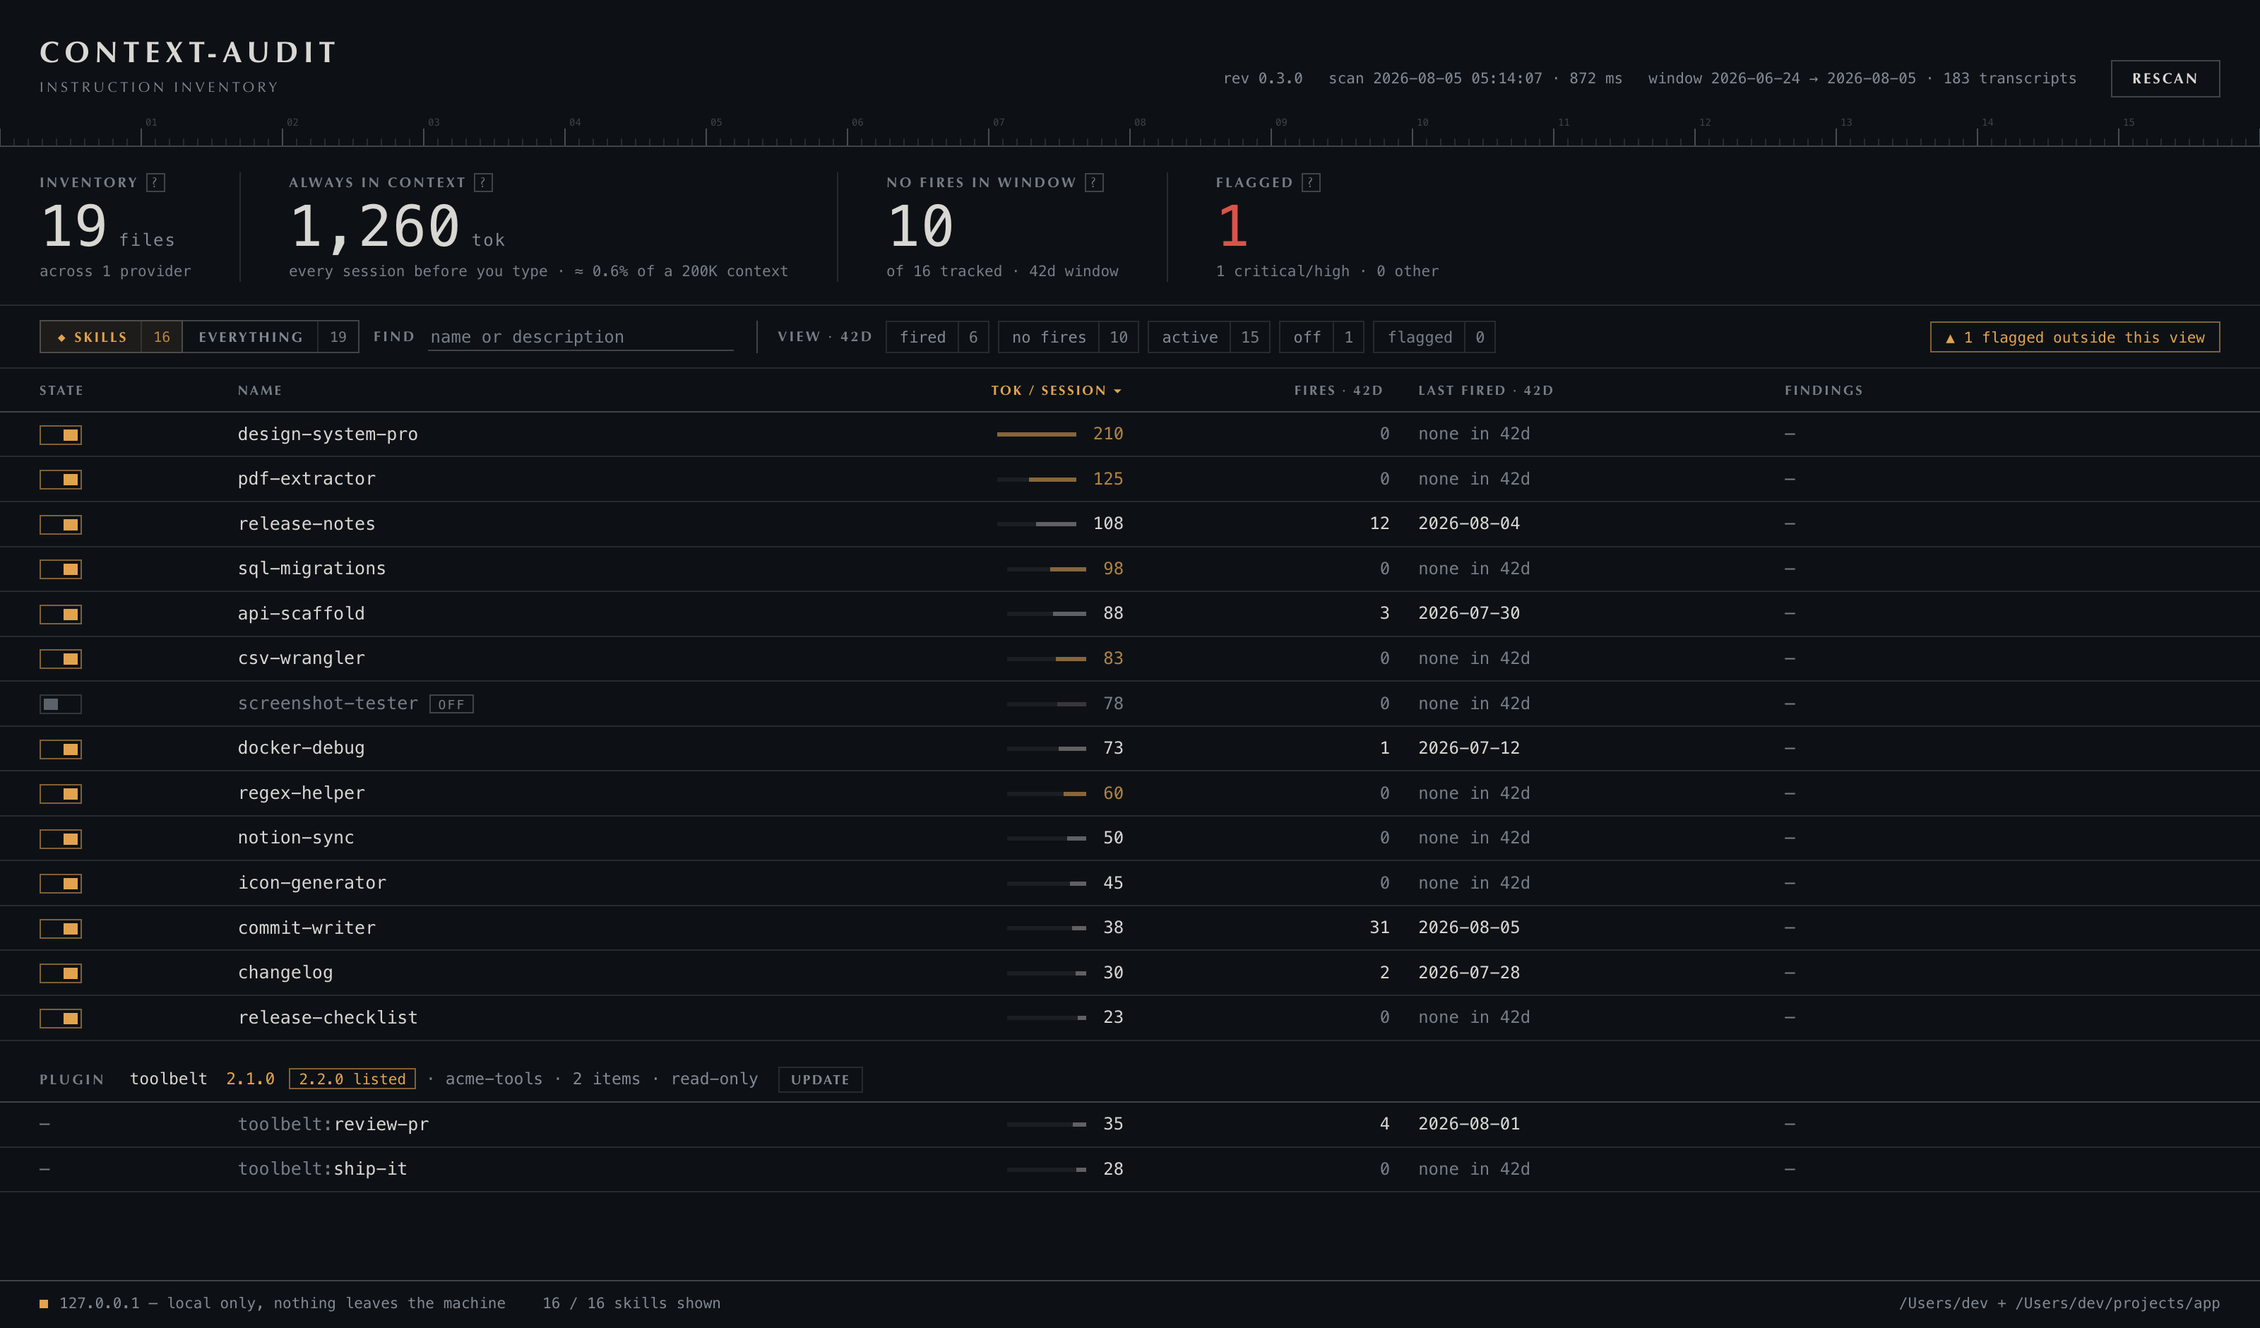
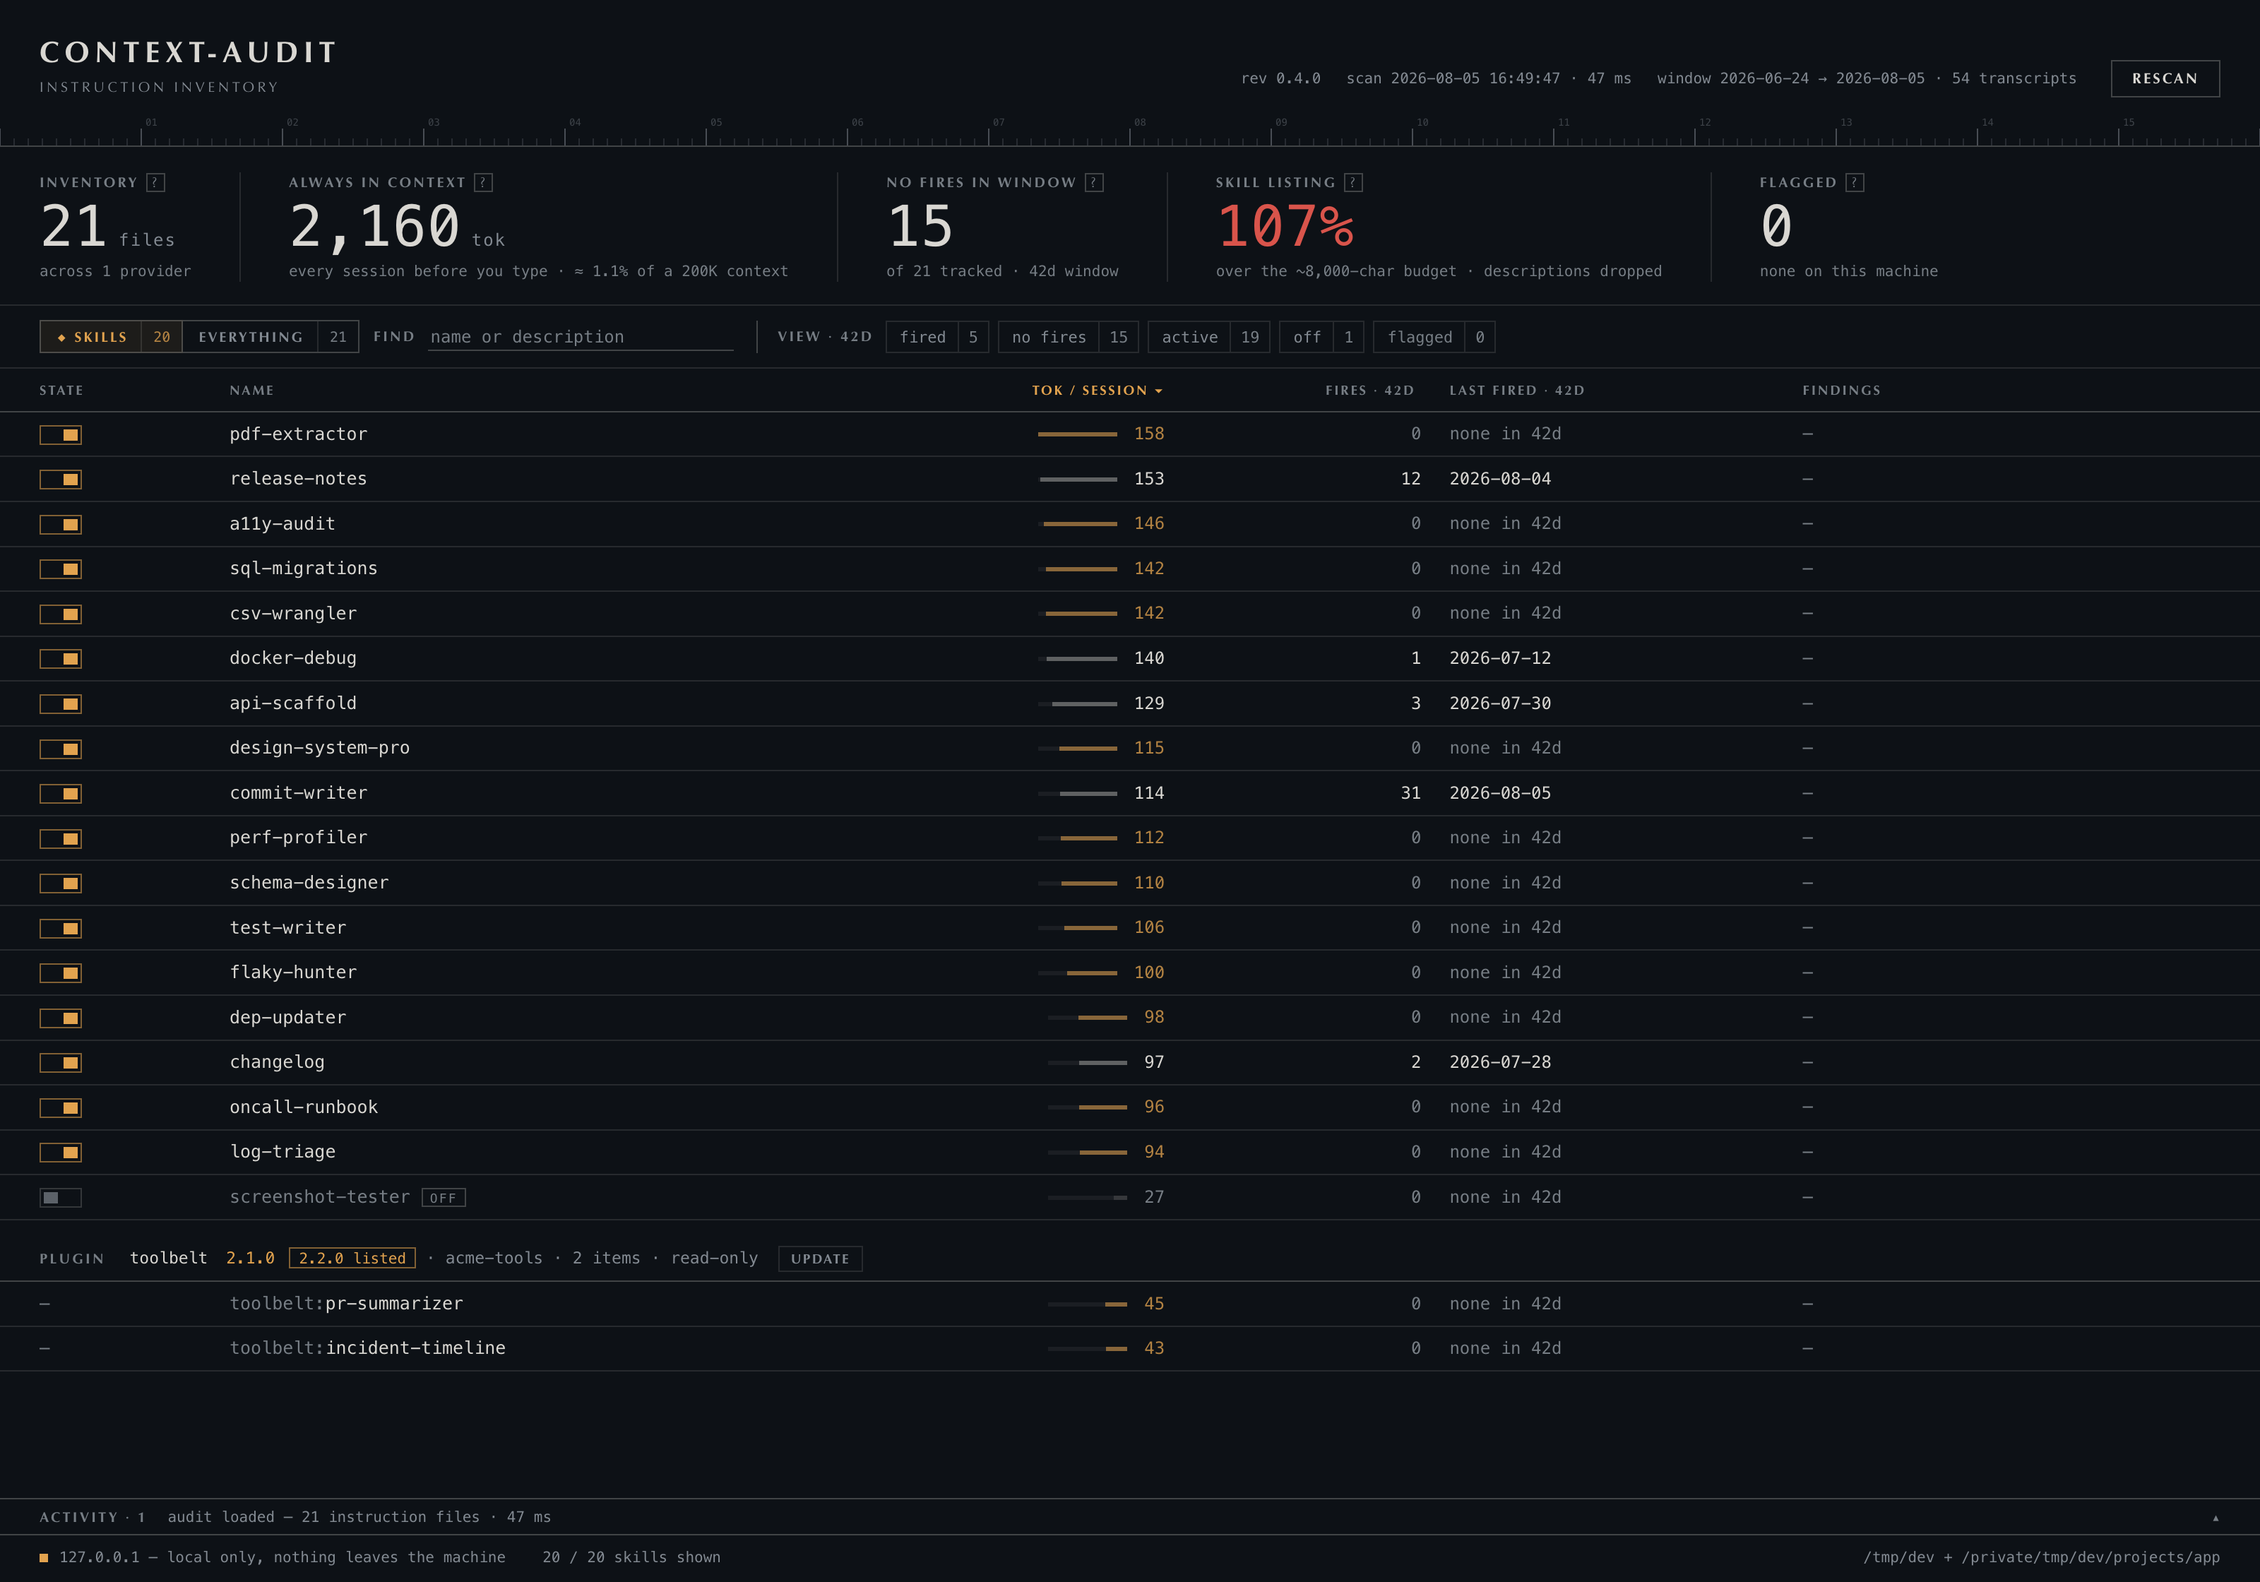
Put the listing budget on the dashboard, where the question gets asked
The CLI has reported the skill-listing budget since v0.1 and the dashboard
never did — so the number that answers "why has Claude stopped firing my
skill?" was missing from the surface the companion skill hands people when
they ask exactly that. 0.4.0 repositioned the whole product around that
question; this closes the gap it opened.

- SKILL LISTING joins the header readouts: a percentage of the ~8,000-char
  budget, red past 100%, with the consequence in the sub-line rather than a
  bare number ("descriptions dropped"). Absent entirely on machines with no
  Claude skills — a budget nothing is subject to is not a fact about the
  setup, and a Claude-specific 0% on a Cursor-only machine would be noise.

- The figure and the over/under call move to content.ts so the report and the
  page cannot drift apart on it, the same reason injectedChars already lives
  there. The dashboard counts plugin skills (they are listed) while the CLI's
  claude adapter does not inventory plugins at all, so the dashboard reads
  higher on the same machine; the tooltip states both scopes rather than
  leaving two unexplained numbers. Teaching the CLI to inventory plugins is
  the real fix and is its own change.

- New README hero, generated from a fabricated HOME rather than the author's
  own inventory: 107% over budget, 15 of 21 with no fires, a plugin with an
  update available. The old image was rev 0.3.0 and predated all of it.

315 assertions.

diff --git a/src/content.ts b/src/content.ts
@@ -1,6 +1,41 @@
-import type { ContentFacts, Skill } from "./types.js";
+import type { ContentFacts, ListingBudget, Skill } from "./types.js";
 
 const est = (s: string): number => Math.ceil(s.length / 4);
+
+/**
+ * Claude Code loads skill names + descriptions into every session under a
+ * character budget of `skillListingBudgetFraction` (default 1% of the context
+ * window — 8,000 chars on a 200K model). Past it, descriptions are dropped
+ * starting with the least-invoked skills; the skill still exists but can no
+ * longer auto-trigger. Documented at code.claude.com/docs/en/skills.
+ *
+ * This is the tool's most actionable number — it is the answer to "why has
+ * Claude stopped firing my skill?" — so it lives here rather than in either
+ * renderer: the report and the dashboard must never disagree about it.
+ */
+export const LISTING_BUDGET_CHARS = 8000;
+
+/** The listing figure and what it means, computed once for every surface. */
+export function listingBudget(chars: number): ListingBudget {
+  return {
+    chars,
+    budgetChars: LISTING_BUDGET_CHARS,
+    // Rounded for display only; `over` is decided on the raw characters, so a
+    // listing at 100.4% never reads "100%" next to the word "within".
+    pct: Math.round((chars / LISTING_BUDGET_CHARS) * 100),
+    over: chars > LISTING_BUDGET_CHARS,
+  };
+}
+
+/**
+ * Characters this asset contributes to the skill listing. Only skills are
+ * listed under the budget, and only while they are loaded — a disabled skill
+ * costs nothing because it is not in the directory Claude Code reads.
+ */
+export function listingChars(asset: Skill): number {
+  if ((asset.kind ?? "skill") !== "skill" || !asset.hasSkillMd) return 0;
+  return asset.dirName.length + (asset.description?.trim().length ?? 0);
+}
 
 /**
  * Characters an asset keeps in context at all times, per its Injection model.
@@ -28,7 +63,7 @@ export function contentFacts(assets: Skill[]): ContentFacts {
   const byDescription = new Map<string, string[]>();
   const tokens: ContentFacts["tokens"] = [];
   let alwaysInjectedChars = 0;
-  let listingChars = 0;
+  let listed = 0;
 
   for (const asset of assets) {
     const kind = asset.kind ?? "skill";
@@ -37,9 +72,7 @@ export function contentFacts(assets: Skill[]): ContentFacts {
       continue;
     }
     alwaysInjectedChars += injectedChars(asset);
-    if (kind === "skill") {
-      listingChars += asset.dirName.length + (asset.description?.trim().length ?? 0);
-    }
+    listed += listingChars(asset);
     const desc = asset.description?.trim() ?? "";
     if (desc === "") {
       // Only kinds that auto-dispatch on their description are broken without
@@ -81,6 +114,6 @@ export function contentFacts(assets: Skill[]): ContentFacts {
     totalBodyEst: tokens.reduce((sum, t) => sum + t.bodyEst, 0),
     alwaysInjectedEst: Math.ceil(alwaysInjectedChars / 4),
     alwaysInjectedChars,
-    listingChars,
+    listingChars: listed,
   };
 }

diff --git a/src/ui/frontend/render.ts b/src/ui/frontend/render.ts
@@ -443,12 +443,37 @@ function headerReadouts(payload: UiPayload, state: AppState): string {
       "",
       `${win.note} Only kinds the transcripts record dispatch for are counted here (skills and commands); agents and instruction files have no dispatch record, so they are not called unused.`
     ),
+    // The listing budget. Absent on machines it does not apply to (no Claude
+    // skills) rather than shown as a zero — a budget nothing is subject to is
+    // not a fact about this setup.
+    ...(h.listing
+      ? [
+          readout(
+            "skill listing",
+            `${fmtInt(h.listing.pct)}%`,
+            "",
+            h.listing.over
+              ? `over the ~${fmtInt(h.listing.budgetChars)}-char budget · descriptions dropped`
+              : `of the ~${fmtInt(h.listing.budgetChars)}-char budget · all descriptions load`,
+            3,
+            state.animate,
+            h.listing.over ? " danger" : "",
+            (h.listing.over
+              ? `Claude Code budgets the skill LISTING — every enabled skill's name and description — in characters (skillListingBudgetFraction, ~1% of the context window). Yours is ${fmtInt(h.listing.chars)} chars, past the ~${fmtInt(h.listing.budgetChars)} budget, so Claude Code is dropping descriptions starting with the skills you invoke least. Those skills still exist; they just stop auto-triggering, which looks exactly like the model ignoring you. Filter to "no fires" to see which go first. Fix it by removing or shortening descriptions, or raise skillListingBudgetFraction.`
+              : `Claude Code budgets the skill LISTING — every enabled skill's name and description — in characters (skillListingBudgetFraction, ~1% of the context window). Yours is ${fmtInt(h.listing.chars)} of ~${fmtInt(h.listing.budgetChars)} chars, so every description loads and every skill can still auto-trigger. Past 100%, Claude Code drops them starting with the skills you invoke least.`) +
+              // The CLI's claude adapter does not inventory plugins, so its
+              // figure is user + project skills only. Two numbers for one fact
+              // is confusing; two numbers with their scopes stated is not.
+              ` Counted here: user, project AND plugin skills, since all three are listed. The \`context-audit\` CLI reports a lower figure — it counts user and project skills only.`
+          ),
+        ]
+      : []),
     readout(
       "flagged",
       fmtInt(h.flagged),
       "",
       flaggedSub,
-      3,
+      4,
       state.animate,
       h.flaggedHigh > 0 ? " danger" : h.flagged > 0 ? " signal" : "",
       "Items carrying at least one security flag. Open the row to read the evidence line and verify it at the cited file before acting."

diff --git a/src/ui/inventory.ts b/src/ui/inventory.ts
@@ -1,7 +1,7 @@
 import { createHash } from "node:crypto";
 import { existsSync, readFileSync, statSync } from "node:fs";
 import { dirname, join, resolve, sep } from "node:path";
-import { injectedChars } from "../content.js";
+import { injectedChars, listingBudget, listingChars } from "../content.js";
 import { historyFacts } from "../history.js";
 import { securityScan } from "../security.js";
 import { discoverSkills, isSkillMd, parseFrontmatter } from "../skills.js";
@@ -310,6 +310,23 @@ export async function buildUiPayload(ctx: SourceContext, opts: UiBuildOptions): 
 
   const enabledItems = items.filter((i) => i.enabled);
   const injected = enabledItems.reduce((sum, i) => sum + i.injectedChars, 0);
+
+  // The skill listing, and the budget that silently truncates it. This is the
+  // answer to "why has Claude stopped firing my skill?", so the dashboard has
+  // to carry it — the CLI reported it from the start and the page did not,
+  // which left the tool's most actionable number missing from its most-read
+  // surface.
+  //
+  // Counted from the rows that are actually listed: enabled Claude skills,
+  // user, project and plugin alike. Disabled ones are out of the directory
+  // Claude Code reads, and no other vendor has this budget. Note this can
+  // exceed the CLI's figure on the same machine — the CLI's claude adapter
+  // does not inventory plugin skills, and plugin skills are listed.
+  const listedRows = rows.filter(
+    (r) => (r.source === "claude" || r.source === "custom") && r.enabled && (r.skill.kind ?? "skill") === "skill"
+  );
+  const listedChars = listedRows.reduce((sum, r) => sum + listingChars(r.skill), 0);
+  const listing = listedChars > 0 ? listingBudget(listedChars) : undefined;
   const tracked = items.filter((i) => i.fires !== undefined);
   const flagged = items.filter((i) => i.findings.some((f) => f.level === "flag"));
 
@@ -321,6 +338,7 @@ export async function buildUiPayload(ctx: SourceContext, opts: UiBuildOptions): 
     header: {
       items: items.length,
       providers: sources.length,
+      listing,
       injectedChars: injected,
       injectedTokens: Math.ceil(injected / 4),
       neverFired: tracked.filter((i) => i.fires === null).length,

diff --git a/src/report.ts b/src/report.ts
@@ -1,4 +1,9 @@
 import type { AssetKind, MultiAuditResult, SecurityFinding, SourceAudit } from "./types.js";
+// The listing budget is Claude-specific, so it is only compared for claude
+// sources below. The figure itself and the over/under call live in content.ts,
+// so this report and the dashboard cannot drift apart on the tool's single
+// most actionable number.
+import { LISTING_BUDGET_CHARS, listingBudget } from "./content.js";
 
 const useColor = process.stdout.isTTY && !process.env.NO_COLOR;
 const c = (code: number, s: string): string => (useColor ? `\x1b[${code}m${s}\x1b[0m` : s);
@@ -31,16 +36,6 @@ function printFinding(f: SecurityFinding): void {
   // against the asset list by hand.
   if (f.path) console.log(`        ${dim("verify:")} ${f.path}${f.line ? `:${f.line}` : ""}`);
 }
-
-/**
- * Claude Code loads skill names + descriptions into every session under a
- * character budget of `skillListingBudgetFraction` (default 1% of the context
- * window — 8,000 chars on a 200K model). Past it, descriptions are dropped
- * starting with the least-invoked skills; the skill still exists but can no
- * longer auto-trigger. Documented at code.claude.com/docs/en/skills.
- * This budget is Claude-specific, so it is only compared for claude sources.
- */
-const LISTING_BUDGET_CHARS = 8000;
 
 const KIND_LABEL: Record<AssetKind, [string, string]> = {
   skill: ["skill", "skills"],
@@ -80,9 +75,9 @@ function printSource(s: SourceAudit): void {
   );
   let overBudget = false;
   if (hasListingBudget(s)) {
-    const chars = content.listingChars;
-    const pct = Math.round((chars / LISTING_BUDGET_CHARS) * 100);
-    overBudget = chars > LISTING_BUDGET_CHARS;
+    const b = listingBudget(content.listingChars);
+    const pct = b.pct;
+    overBudget = b.over;
     if (overBudget) {
       console.log(
         `  ${red(`skill listing at ${pct}% of the ~${LISTING_BUDGET_CHARS.toLocaleString()}-char budget`)} — over it, Claude Code drops`

diff --git a/src/types.ts b/src/types.ts
@@ -252,10 +252,28 @@ export interface UiItem {
   twinPath?: string;
 }
 
-/** The pitch in four numbers, plus the denominators that keep them honest. */
+/**
+ * The Claude Code skill-listing budget and where this setup sits against it.
+ * Absent when nothing on the machine is subject to it (no Claude skills).
+ */
+export interface ListingBudget {
+  chars: number;
+  budgetChars: number;
+  pct: number;
+  /** Decided on raw characters, never on the rounded percentage. */
+  over: boolean;
+}
+
+/** The pitch in five numbers, plus the denominators that keep them honest. */
 export interface UiHeader {
   items: number;
   providers: number;
+  /**
+   * Claude's skill listing, when this machine has one. Counts every ENABLED
+   * skill whose description loads — user, project and plugin alike — because
+   * that is what Claude Code reads.
+   */
+  listing?: ListingBudget;
   /** Enabled items only — what the setup actually costs per session. */
   injectedChars: number;
   injectedTokens: number;

diff --git a/README.md b/README.md
@@ -2,7 +2,7 @@
 
 **The dashboard for your skills: what they cost in every session, what actually fires, what's dead weight, and what's dangerous — for Claude Code, Codex, Cursor and the cross-tool AGENTS.md standard.**
 
-![context-audit dashboard — skills view with cost meters, fire counts and dead-weight highlighting](docs/dashboard.png)
+![context-audit dashboard — skills view showing a listing 107% over the character budget, per-skill cost meters, fire counts and dead-weight highlighting](docs/dashboard.png)
 
 ```
 npx context-audit ui
@@ -23,6 +23,8 @@ Claude Code skills, agents, commands and CLAUDE.md. Codex prompts and AGENTS.md.
 ## The dashboard
 
 The page boots to **your skills** — the layer you actually manage: togglable, usage-tracked, marketplace-installed. Everything else the inventory found (agents, commands, rules, instruction files) is one click away behind the `everything` switch, and the header totals always count all of it — a skills view that understated your real context bill would be lying with a filter.
+
+The header carries the diagnosis. **Skill listing** is the percentage of Claude Code's ~8,000-character listing budget your enabled skills occupy — over 100% it turns red and says what that costs you, because past the budget Claude Code drops descriptions starting with the skills you invoke least, and those skills stop auto-triggering. That is the answer to "why has Claude stopped firing my skill?", which is the question people actually arrive with. It counts user, project and plugin skills alike, since all three are listed; the CLI's figure covers user and project skills only.
 
 What the table shows per row: tokens per session (with a meter scaled to your most expensive item), fires in the usage window, last fired, and security findings. **Dead weight gets the amber** — an item that is enabled, carries a real share of the bill, and fired zero times in the window. A cheap silent skill and an expensive busy one are both fine; the intersection is what you're paying for nothing.
 
